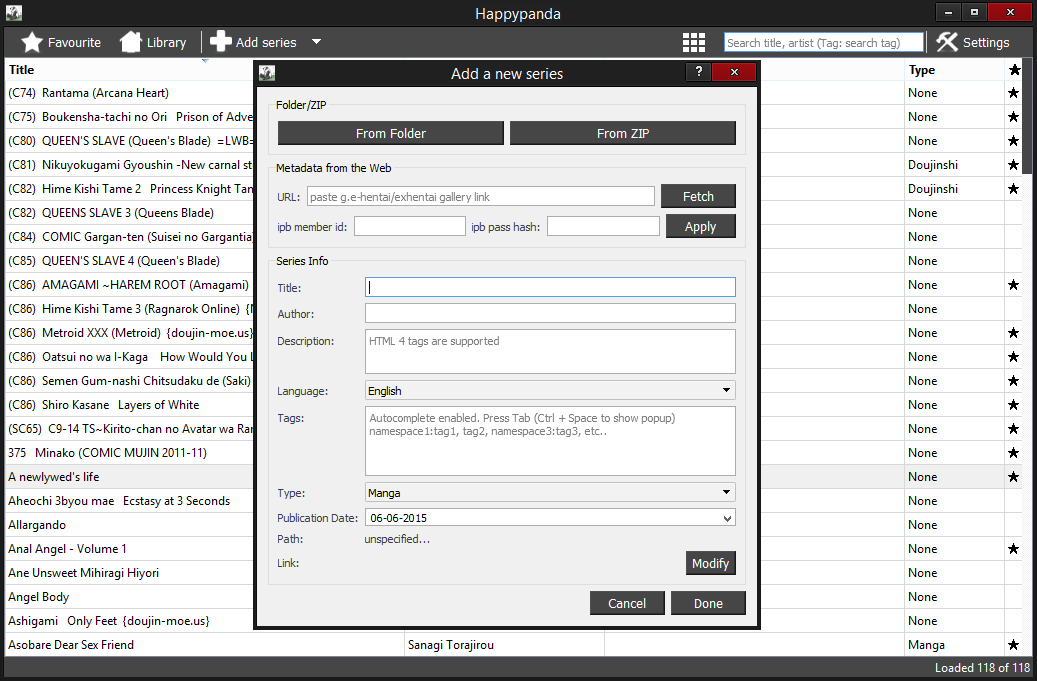
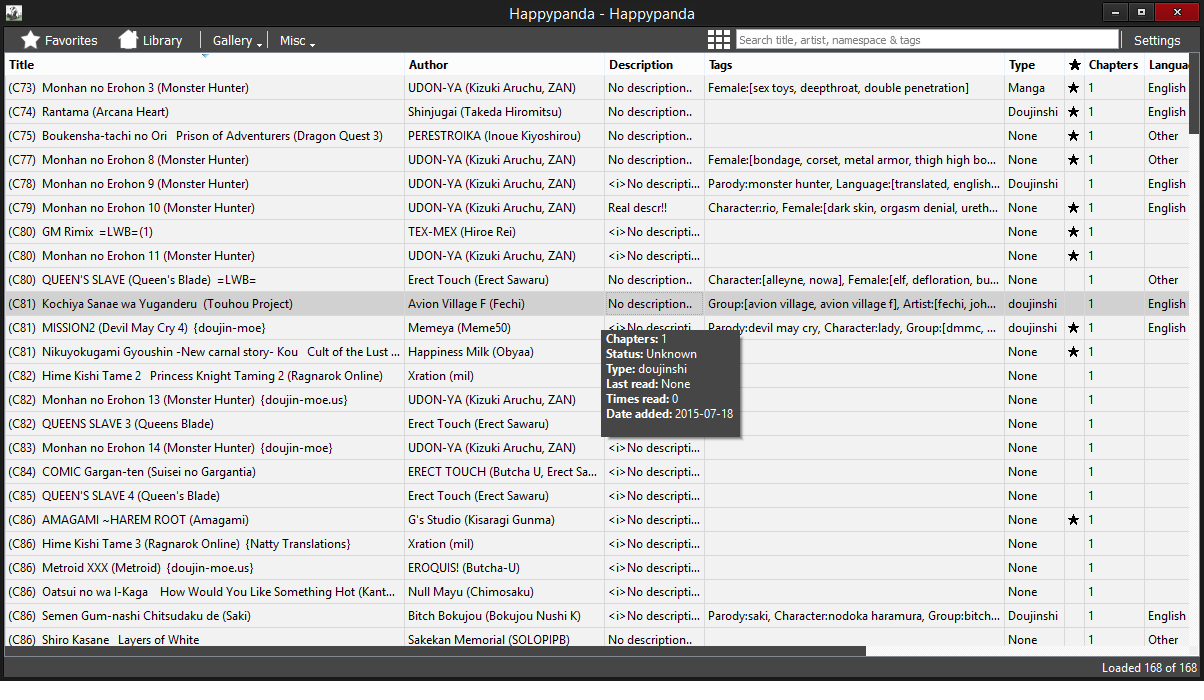
Added new screenshots; Updated to inform about new features;

diff --git a/README.md b/README.md
@@ -11,6 +11,7 @@ I'm here if you have any questions!
 <img src="misc/screenshot1.png" width="300">
 <img src="misc/screenshot2.png" width="300">
 <img src="misc/screenshot3.png" width="300">
+<img src="misc/screenshot4.png" width="300">
 
 # How to install & run
 *(I have only tested this on windows)*
@@ -21,34 +22,39 @@ For Mac & Linux see [INSTALL.md](INSTALL.md)
 2. Extract to desired location (avoid locations where you need admin rights)
 3. Run the program by clicking on Happypanda
 
-# Usage
-- Click "Add gallery". Choose your gallery folder and edit the metadata, click done when... done.
-- Or you can populate the program with all galleries from folder by clicking on the arrow for dropdown menu and then 'Populate from folder':
-    - Currently supports ZIP/CBZ and the following folder structures *(Mixed structures are supported)*:
-        + .../My_general_gallery_folder
-            - --/gallery1_folder
-                - --/Chp_1_folder
-                    - --/image_1
-                    - --/image_2
-                - --/Chp_n_folder
-                    - --/image_n
-
-        + .../My_general_gallery_folder
-            - --/gallery1_folder
+# Features
+- Keep track of your galleries and organize them more easily
+- Search for galleries through title, artist or namespaces & tags
+- Fetch metadata which includes namespace & tags from the web (Currently only supports g.e-hentai and exhentai) without getting you banned
+- Favourite your favourite galleries and keep them in a seperate view
+- View your galleries with highquality thumbnails or in a simple table list
+- Add your galleries easily without worrying about adding duplicates with one of the 3 available modes:
+	+ Add a single gallery. *Note: this way you can add even if the gallery already exist*
+	+ Add galleries from different locations
+	+ Or just populate from a single folder containing all your galleries
+- Currently supports ZIP/CBZ and the following folder structures:
+    + .../My_general_gallery_folder
+        - --/gallery1_folder
+            - --/Chp_1_folder
                 - --/image_1
                 - --/image_2
-            - --/gallery_n_folder
-                - --/image_n
+            - --/Chp_n_folder
                 - --/image_n
 
-- Edit/Remove/Open/Favourite gallery by rightclicking on it
-- Doubleclick on gallery to open first chapter
-- Click on a gallery to open a window with it's metadata
-- Search title, author and namespace & tags
+    + .../My_general_gallery_folder
+        - --/gallery1_folder
+            - --/image_1
+            - --/image_2
+        - --/gallery_n_folder
+            - --/image_n
+            - --/image_n
+- Add new released chapters to your gallery easily
+- Monitor 1 or more folders for events and be notified:
+	+ Renaming a gallery source  will prompt the program to ask if you want to update the renamed gallery's source
+	+ Deleting a gallery source will prompt the program to ask if you want to remove the gallery from the program as well
+	+ Adding new gallery sources will prompt the program to ask you if you want to add them
+- Customize your program with lots of options in the settings
 - And lots more...
-
-
-- If everything fails or you somehow messed up, then feel free to delete the DB folder and start over. Find me in the gitter chat, if you have any questions.
 
 # Dependencies
 - Qt5 (Install this first) >= 5.4
